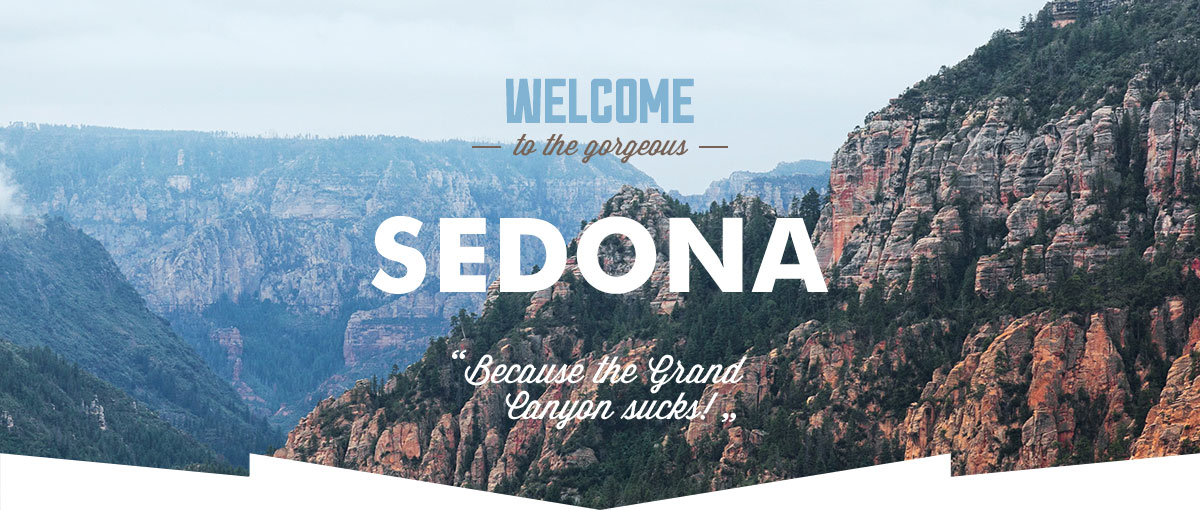
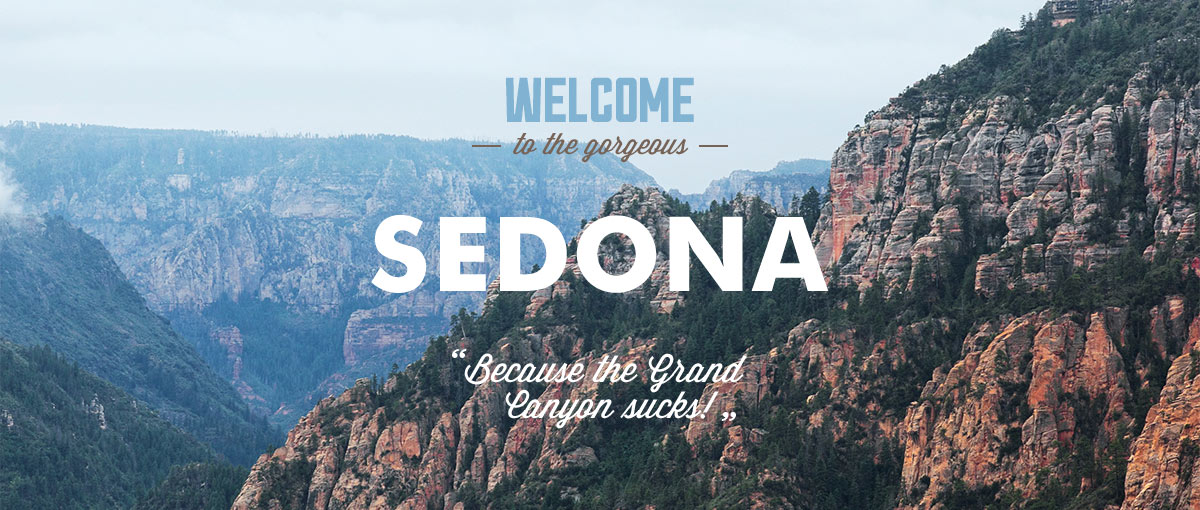
Добавляет правки и js

diff --git a/css/style.css b/css/style.css
@@ -39,6 +39,7 @@ input[type="radio"].visually-hidden {
     width: 1200px;
     margin: 0 auto;
     padding: 0;
+    position: relative;
     
     background-color: #ffffff;
     -webkit-box-shadow: 0 0 30px 0px rgba(0, 0, 0, 0.2);
@@ -52,7 +53,7 @@ input[type="radio"].visually-hidden {
 
 .main-header-logo {
     position: absolute;
-    left: 50%;
+    left: 598px;
     width: 140px;
     margin-left: -70px;
 }
@@ -91,7 +92,7 @@ input[type="radio"].visually-hidden {
     margin-top: 15px;
     margin-bottom: 15px;
     padding: 0;
-    padding-left: 73px;
+    padding-left: 71px;
     
     text-align: left;
     letter-spacing: .015em;
@@ -106,7 +107,7 @@ input[type="radio"].visually-hidden {
 
 .main-navigation li:nth-child(n+3) {
     padding: 0;
-    padding-right: 73px;
+    padding-right: 74px;
     text-align: right;
 }
 
@@ -134,6 +135,7 @@ input[type="radio"].visually-hidden {
     height: 510px;
     
     background: #658eb4 url(../img/intro.jpg) 0 0 no-repeat;
+    background-size: 100%;
 }
 
 .main-title {
@@ -143,10 +145,6 @@ input[type="radio"].visually-hidden {
     font-size: 21px;
     line-height: 26px;
     text-align: center;
-}
-
-.features {
-    margin-bottom: 50px;
 }
 
 .features h2 {
@@ -175,6 +173,9 @@ input[type="radio"].visually-hidden {
 .features-item {
     width: 280px;
     padding: 25px 60px 45px;
+    
+    position: relative;
+    z-index: 4;
     
     text-align: center;
     color: #000000;
@@ -337,6 +338,9 @@ input[type="radio"].visually-hidden {
     width: 568px;
     padding: 29px 135px 31px;
     
+    position: relative;
+    z-index: 4;
+    
     font-size: 21px;
     line-height: 26px;
     
@@ -411,15 +415,19 @@ input[type="radio"].visually-hidden {
     }
 }
 
-.search-form-container {
+.search .text-secondary-container {
     margin: 0;
     padding: 0;
+    padding-top: 50px;
     
     position: relative;
+    z-index: 5;
+    
+    background-color: #ffffff;
 }
 
 .search-form {
-/*    display: none;*/
+    display: none;
     
     width: 458px;
     padding: 55px;
@@ -441,6 +449,7 @@ input[type="radio"].visually-hidden {
 .seach-form-showed {
     display: block;
     animation: pull 0.8s;
+    animation-timing-function: ease;
     z-index: 3;
 }
 
@@ -1100,10 +1109,11 @@ ul.sorting-type {
 }
 
 .main-footer {
-    padding: 32px 95px 38px 133px;
+    padding: 33px 95px 35px 133px;
     display: -webkit-box;
     display: -ms-flexbox;
     display: flex;
+    justify-content: space-between;
     -webkit-box-align: center;
         -ms-flex-align: center;
             align-items: center;
@@ -1120,7 +1130,7 @@ ul.sorting-type {
 
 .footer-hashtag {
     margin: 0;
-    margin-right: 250px;
+    margin-right: 25px;
     
     font-size: 21px;
     line-height: 26px;
@@ -1135,8 +1145,7 @@ ul.sorting-type {
     -webkit-box-pack: justify;
         -ms-flex-pack: justify;
             justify-content: space-between;
-    margin-top: 3px;
-    margin-left: 6px;
+    
     text-align: center;
 }
 
@@ -1164,10 +1173,7 @@ ul.sorting-type {
 
 .footer-copyright {
     width: 200px;
-    margin: 0;
-    margin-top: 2px;
-    margin-left: auto;
-    margin-right: 3px;
+    margin-right: 5px;
    
     display: -webkit-box;
    

diff --git a/index.html b/index.html
@@ -79,10 +79,12 @@
                 </section>
                 <section class="search">
                     <h2 class="visually-hidden">Поиск жилья в Седоне</h2>
-                    <div class="text-secondary">Заинтересовались?</div>
-                    <p>Укажите предполагаемые даты поездки,<br> и мы покажем вам лучшие предложения гостиниц в Седоне</p>
-                    <div class="search-form-container">
+                    <div class="text-secondary-container">
+                        <div class="text-secondary">Заинтересовались?</div>
+                        <p>Укажите предполагаемые даты поездки,<br> и мы покажем вам лучшие предложения гостиниц в Седоне</p>
                         <button class="button open-close-button" type="button">Поиск гостиницы в Седоне</button>
+                    </div>
+                    
                         <form class="search-form" action="https://echo.htmlacademy.ru" method="post">
                                 <div class="search-item">
                                     <label for="check-in-date">Дата заезда:</label>
@@ -118,7 +120,7 @@
                             </div>
                             <button class="button search-button" type="submit">Найти</button>
                         </form>
-                    </div>
+                    
                     <p>
                         <img src="img/map.jpg" width="1200" height="593" alt="Седона, Аризона, США">
                     </p>

diff --git a/js/popup.js b/js/popup.js
@@ -1,0 +1,21 @@
+"use strict";
+var button = document.querySelector(".open-close-button");
+var popup = document.querySelector(".search-form");
+
+var checkin = popup.querySelector("[name=check-in]");
+
+button.addEventListener("click", function (evt) {
+    evt.preventDefault();
+    popup.classList.toggle("seach-form-showed");
+    checkin.focus();
+});
+
+window.addEventListener("keydown", function (evt) {
+    if (evt.keyCode === 27) {
+      evt.preventDefault();
+      if (popup.classList.contains("seach-form-showed")) {
+        popup.classList.remove("seach-form-showed");
+      }
+    }
+});
+
